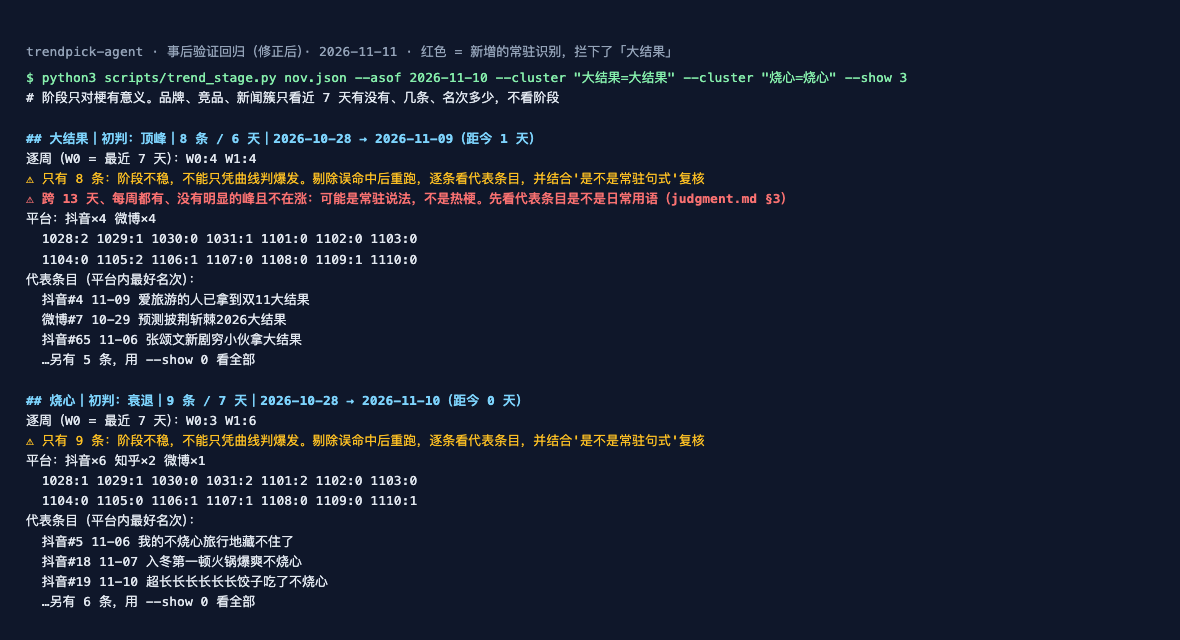
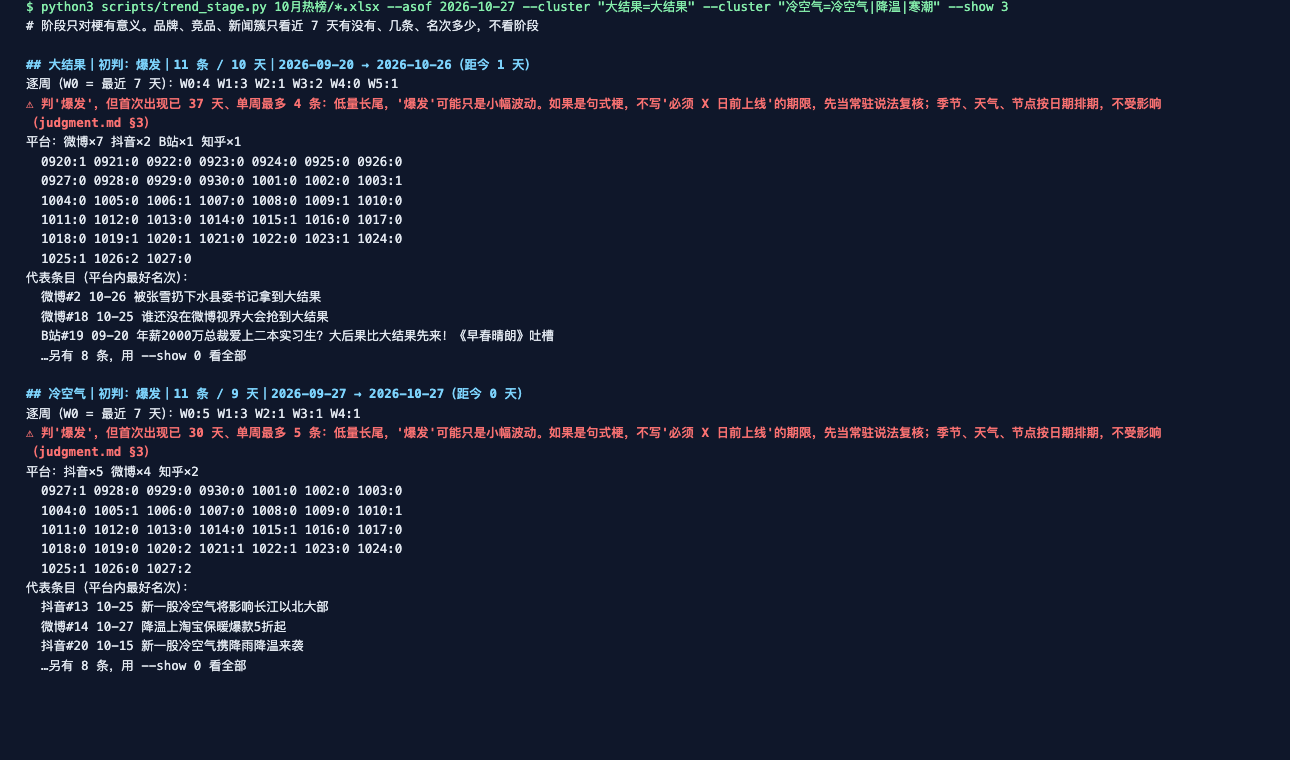
trend_stage.py：低量长尾提示，用 10-27 当时的数据就能拦下「大结果」
- 判"爆发"但首次出现超过 28 天、单周从没超过 5 条：提示低量长尾，句式梗不写上线期限
- 恢复原常驻规则（上一版替换后丢了「含金量」「纯过日子」的常驻提示），新规则只作补充
- 只加提示，不改阶段判定；10 月、11 月两份数据回归，阶段判定全部不变
- evals/post-hoc 截图改为用 10-27 当时数据重跑的输出

Changed region(s): [[0.0, 0.0, 0.9153, 0.9688]]

diff --git a/skills/trendpick-agent/scripts/trend_stage.py b/skills/trendpick-agent/scripts/trend_stage.py
@@ -266,12 +266,22 @@ def run_clusters(a, recs, rank, asof):
             flat = weeks[1] > 0 and 0.75 * weeks[1] <= weeks[0] <= 1.5 * weeks[1]
         else:
             flat = False
-        steady = span_days >= 10 and med >= 1 and flat and max(weeks) <= min(8, 2 * med + 2)
+        steady_short = span_days >= 10 and med >= 1 and flat and max(weeks) <= min(8, 2 * med + 2)
+        # 原规则保留（长跨度、量不小、没有峰、最近两周不在涨），新规则只补它漏掉的短跨度小簇
+        steady_long = (len(weeks) >= 5 and min(weeks) > 0 and med >= 2 and sum(weeks) >= 10
+                       and max(weeks) <= min(8, 2 * med)
+                       and sum(weeks[:2]) / 2 <= 1.5 * sum(weeks[2:]) / len(weeks[2:]))
+        steady = steady_short or steady_long
         if len(seen) < 10:
             print(f"⚠ 只有 {len(seen)} 条：阶段不稳，不能只凭曲线判爆发。剔除误命中后重跑，逐条看代表条目，并结合'是不是常驻句式'复核")
         if steady:
             print(f"⚠ 跨 {span_days} 天、每周都有、没有明显的峰且不在涨：可能是常驻说法，不是热梗。"
                   "先看代表条目是不是日常用语（judgment.md §3）")
+        # 低量长尾：一个多月前就有、单周从没超过 5 条。这种簇的"爆发"多半只是 1→4 的小波动，
+        # 不是新梗起量。2026-11 事后验证：「大结果」10/27 时 W0:4 W1:3 被判爆发，实际之后两周各 4 条平走
+        elif stage.startswith("爆发") and span_days >= 28 and max(weeks) <= 5:
+            print(f"⚠ 判'爆发'，但首次出现已 {span_days} 天、单周最多 {max(weeks)} 条：低量长尾，'爆发'可能只是小幅波动。"
+                  "如果是句式梗，不写'必须 X 日前上线'的期限，先当常驻说法复核；季节、天气、节点按日期排期，不受影响（judgment.md §3）")
         print("平台：" + " ".join(f"{p}×{n}" for p, n in sorted(plats.items(), key=lambda x: -x[1])))
         # 逐日曲线（按周分行，便于肉眼看起落）
         d, line = date.fromisoformat(days[0]), []

diff --git a/evals/post-hoc/README.md b/evals/post-hoc/README.md
@@ -17,13 +17,16 @@
 
 ## 判错的那条
 
-「大结果」是常驻句式，不是爆发中的梗。旧的常驻识别要求"≥ 5 周、总数 ≥ 10"，拦不住 8 条、跨 2 周的小簇。
+「大结果」是常驻句式，不是爆发中的梗。10/27 时它 37 天里只有 11 条、单周最多 4 条，最近一周比前一周多 1 条就被判了爆发。旧的常驻识别要求"5 周以上每周都有、周中位数 ≥ 2"，它中间有一周是 0，没拦住。
 
-`scripts/trend_stage.py` 已改：常驻识别看**跨度 ≥ 10 天 + 周环比在 0.75–1.5 倍之间**（不涨也不退），衰退中的簇不会误报；不到 10 条的簇强制提示"不能只凭曲线判爆发"。
+`scripts/trend_stage.py` 已改（只加提示，不改阶段判定）：
+- 判"爆发"但首次出现已超过 28 天、单周从没超过 5 条：提示"低量长尾"，句式梗不写上线期限。**用 10/27 当时的数据就能拦下「大结果」**（下图）
+- 原常驻规则保留，再补一条短跨度规则：跨度 ≥ 10 天、周环比 0.75–1.5 倍。衰退中的簇不会误报
+- 不到 10 条的簇，强制提示"不能只凭曲线判爆发"
 
-![修正后的脚本输出](terminal.png)
+![修正后的脚本，用 10-27 当时的数据重跑](terminal.png)
 
-**回归**：10 月原始数据重跑，「不烧心」衰退、「可可」顶峰、「双 11」衰退、「万圣」样本不足，和当时的结论一致。
+**回归**：10 月数据重跑，所有簇的阶段判定不变（「不烧心」衰退、「可可」顶峰、「双 11」衰退、「万圣」样本不足）；「含金量」「纯过日子」「跑步」仍提示常驻。11 月数据重跑，「大结果」提示常驻，「不烧心」仍判衰退。
 
 ## 没证明什么
 
